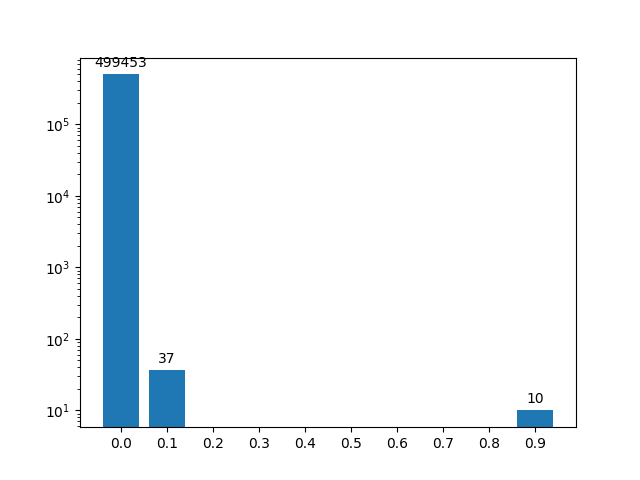
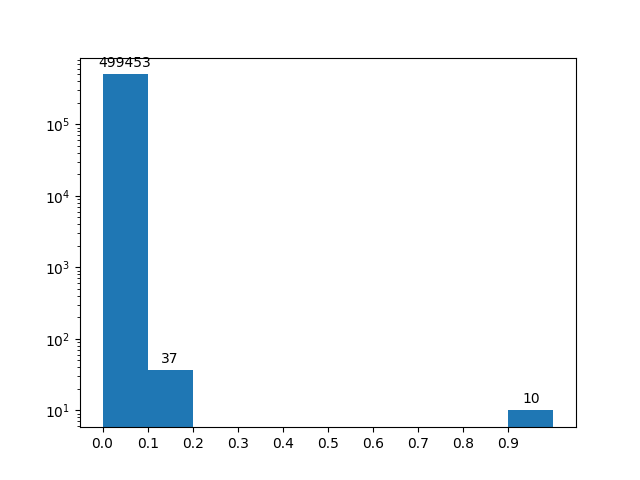
Implement S-curve computation and plotting

Changed region(s): [[0.125, 0.0938, 0.875, 0.9375], [0.8125, 0.8125, 0.8438, 0.8438]]

diff --git a/src/sim_analysis.py b/src/sim_analysis.py
@@ -5,7 +5,12 @@ from functools import partial
 import matplotlib.pyplot as plt
 import time
 
-def plot_jaccard_distribution(docs, suffix):
+
+def compute_sensitivity(s2, M, r):
+    return 1-pow(1-pow(s2, r), M//r)
+
+
+def plot_jaccard_distribution(docs, suffix, plot_sensitivity=False):
     docs = docs.to_dict()['article']
     buckets = {i/10: 0 for i in range(0, 10)}
 
@@ -16,7 +21,7 @@ def plot_jaccard_distribution(docs, suffix):
     lists = buckets.items()
     x, y = zip(*lists)
     x_pos = [i for i, _ in enumerate(x)]
-    rects = plt.bar(x_pos, y)
+    rects = plt.bar(x_pos, y, align='edge', width=1)
     for rect in rects:
         height = rect.get_height()
         plt.annotate('{}'.format(height),
@@ -24,13 +29,25 @@ def plot_jaccard_distribution(docs, suffix):
                     xytext=(0, 3),  # 3 points vertical offset
                     textcoords="offset points",
                     ha='center', va='bottom')
-    plt.xticks(x_pos, x)
     plt.yscale("log")
-    # for index, value in enumerate(y):
-    #     plt.text(value, index, str(value))
+
+    if plot_sensitivity:
+        _s = [i/1000 for i in range(0, 1000, 1)]
+        axes2 = plt.twinx()
+        for M in [20, 50, 100]:
+            for r in [2, 5, 10]:
+                plt.xticks(x_pos, x)
+                _y = [compute_sensitivity(s, M, r) for s in _s]
+                axes2.plot([s*10 for s in _s], _y, color='c', label='Sensitivity')
+                axes2.set_ylim(0, 1)
+                # axes2.set_xlim(0, 1)
+                axes2.set_ylabel('Sensitivity')
+                plt.savefig('./plots/s_curve_%s_%s' % (M, r))
+                axes2.clear()
+
+    plt.xticks(x_pos, x)
     plt.savefig('./plots/sim_dist_%s.png' % (suffix))
     plt.clf()
-
 
 if __name__ == "__main__":
     # read articles
@@ -77,5 +94,5 @@ if __name__ == "__main__":
     t = time.time()
     _filter = partial(to_shingles, stopword_start=True, filter_punctuation=True, remove_capitalization=True)
     articles['article'] = articles_original['article'].apply(_filter)
-    plot_jaccard_distribution(articles, 'stopword_start_filters')
+    plot_jaccard_distribution(articles, 'stopword_start_filters', True)
     print('Plotting similarity distribution with only using 3-grams that start with a stopword and all other possible filters took', time.time() - t, 'seconds')

diff --git a/src/jaccard.py b/src/jaccard.py
@@ -6,10 +6,12 @@ def compute_jaccard(doc1, doc2):
     return len(intersection)/len(union)
 
 # computes Jaccard similarity between each document pair
-def pairwise_jaccard(docs, buckets):
+def pairwise_jaccard(docs, buckets, _print=False):
     for key1, value1 in docs.items():
         for key2, value2 in docs.items():
             if key1 < key2:
                 jaccard_sim = compute_jaccard(value1, value2)
                 # increase bucket count for range in which computed similarity falls
                 buckets[min(jaccard_sim // 0.1 * 0.1, 0.9)] += 1
+                if _print and jaccard_sim > 0.8:
+                    print('Pair has similarity higher than 0.8: (%s, %s)' % (key1, key2))
